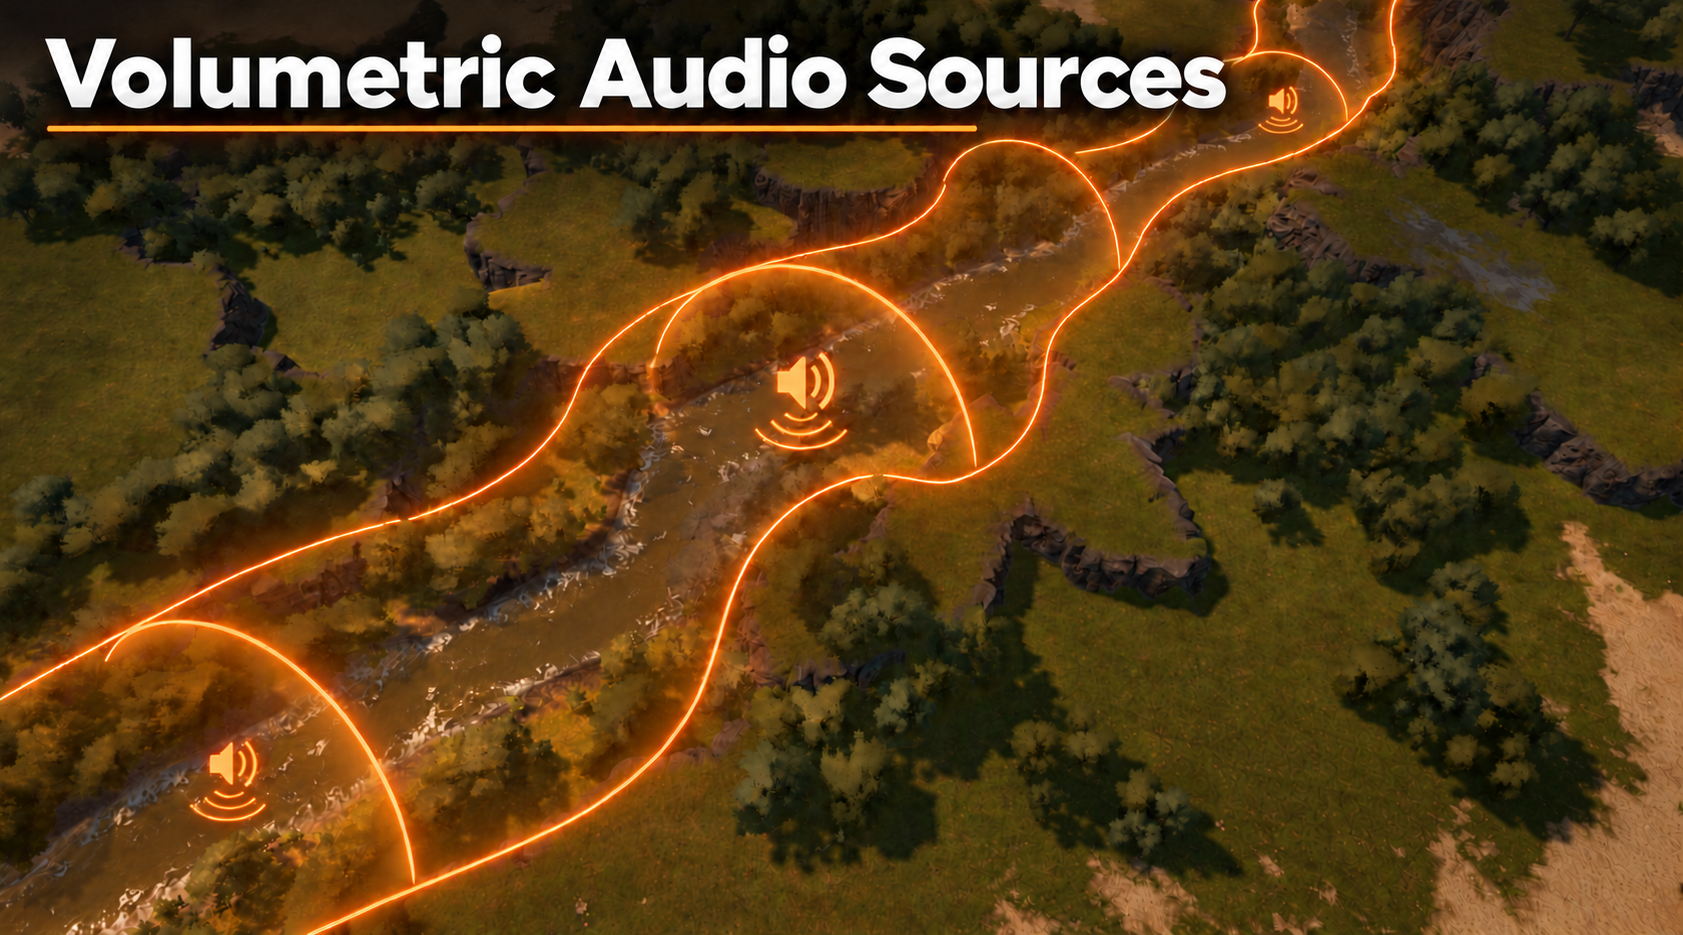
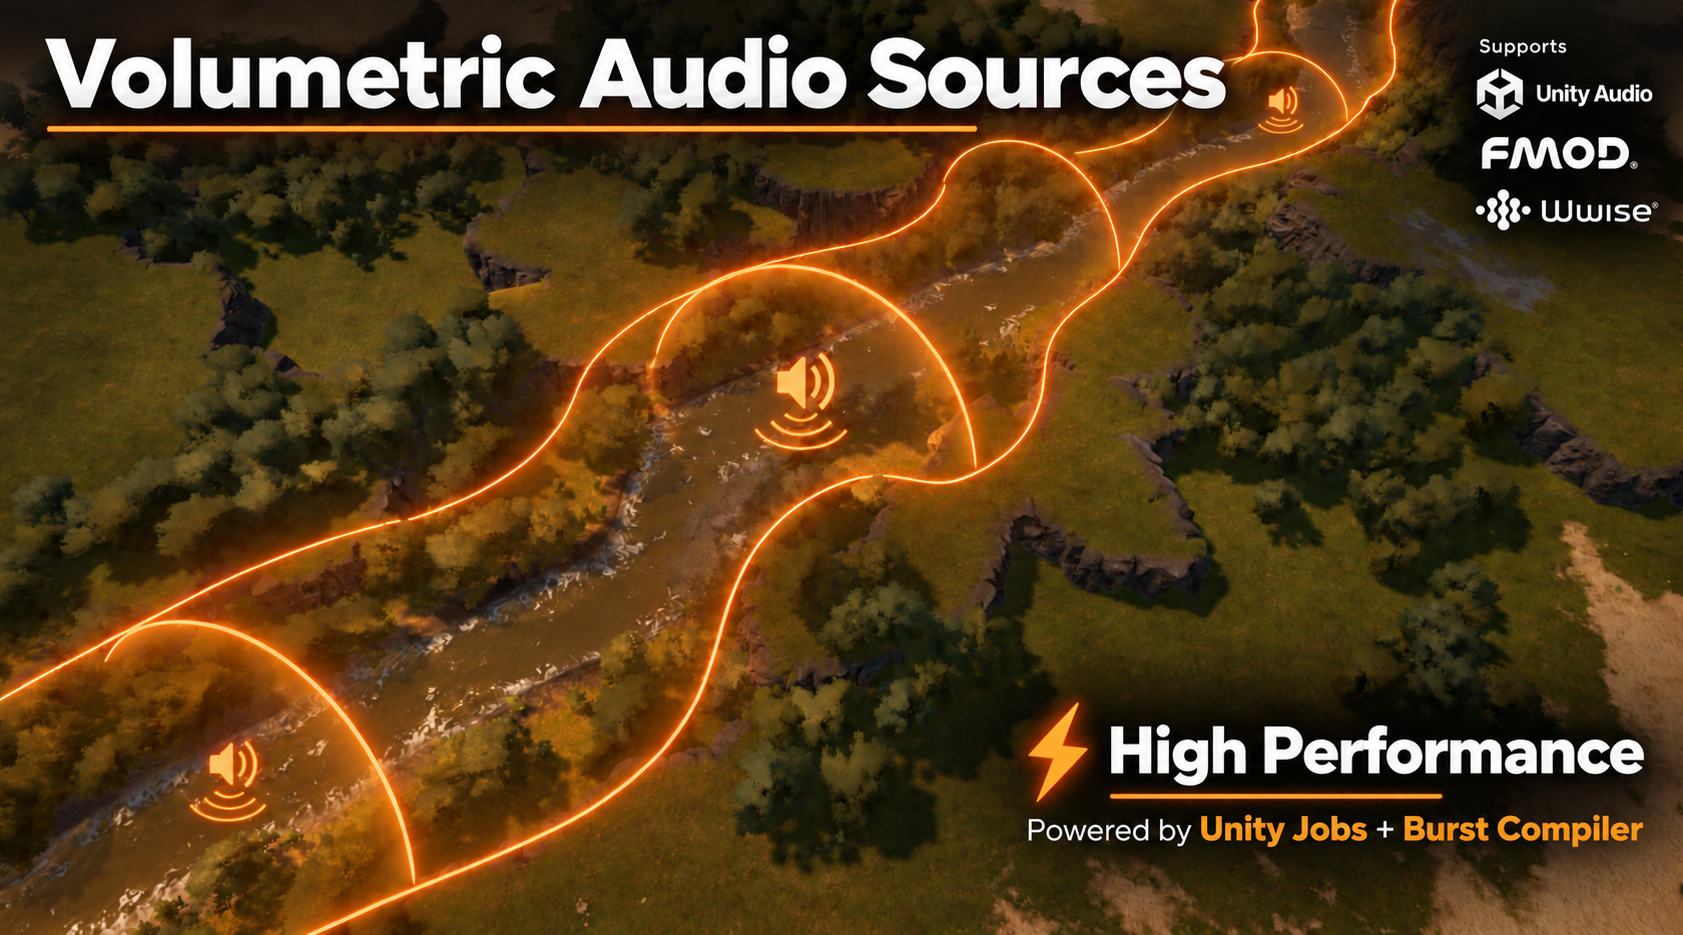
Use support and performance promotional artwork

diff --git a/index.html b/index.html
@@ -9,7 +9,7 @@
   <meta property="og:title" content="Volumetric Audio Sources — Awix Studio">
   <meta property="og:description" content="Sound that follows the shape of your world. Explore mesh-based audio, setup guides and support.">
   <meta property="og:type" content="website">
-  <meta property="og:image" content="https://awixstudio.github.io/volumetric-audio-sources/hero.png">
+  <meta property="og:image" content="https://awixstudio.github.io/volumetric-audio-sources/hero.png?v=2">
   <link rel="icon" href="favicon.svg" type="image/svg+xml">
   <link rel="stylesheet" href="style.css">
   <script src="site.js" defer></script>
@@ -30,7 +30,7 @@
         <div><p class="eyebrow"><span class="dot"></span> VOLUMETRIC AUDIO SOURCES · UNITY TOOL</p><h1 id="hero-title">Sound beyond<br>a single <em>point.</em></h1></div>
         <div class="hero-copy"><p>A river should sound like a river, wherever you stand. Turn your meshes into extended sound sources that follow the listener through your world.</p><div class="actions"><a class="button orange" href="#setup">Explore the setup <span aria-hidden="true">↓</span></a><a class="text-link" href="user-guide.pdf" target="_blank" rel="noopener">Read the user guide ↗</a></div></div>
       </div>
-      <figure class="hero-art container"><img src="hero.png" width="1683" height="935" alt="Volumetric Audio Sources artwork: a winding river surrounded by an orange rounded audio range, with speaker symbols along the water." fetchpriority="high"><figcaption><span>ONE RIVER. ONE CONTINUOUS SOUND AREA.</span><span>Illustrative audio range; actual falloff depends on your audio settings.</span></figcaption></figure>
+      <figure class="hero-art container"><img src="hero.png?v=2" width="1683" height="935" alt="Volumetric Audio Sources artwork: a winding river surrounded by an orange rounded audio range, with speaker symbols, Unity Audio, FMOD and Wwise support logos, and a High Performance badge powered by Unity Jobs and Burst Compiler." fetchpriority="high"><figcaption><span>ONE RIVER. ONE CONTINUOUS SOUND AREA.</span><span>Illustrative audio range; actual falloff depends on your audio settings.</span></figcaption></figure>
       <div class="container feature-strip"><span><b>Mesh-based</b> sound volumes</span><span><b>Unity Jobs + Burst</b> calculations</span><span><b>Unity Audio / FMOD / Wwise</b> backends</span></div>
     </section>
 

diff --git a/README.md b/README.md
@@ -28,7 +28,7 @@ http://127.0.0.1:8765/. You can also open index.html directly for a basic previe
 - index.html: product text, setup instructions, contact and links.
 - style.css: typography, colors and responsive layout.
 - site.js: navigation, backend selection and the schematic closest-point demo.
-- hero.png: title-only promotional artwork.
+- hero.png: promotional artwork with audio backend support logos and the Jobs + Burst performance badge.
 - *-inspector.png: real component screenshots from the English guide.
 - user-guide.pdf: current 10-page English documentation.
 
